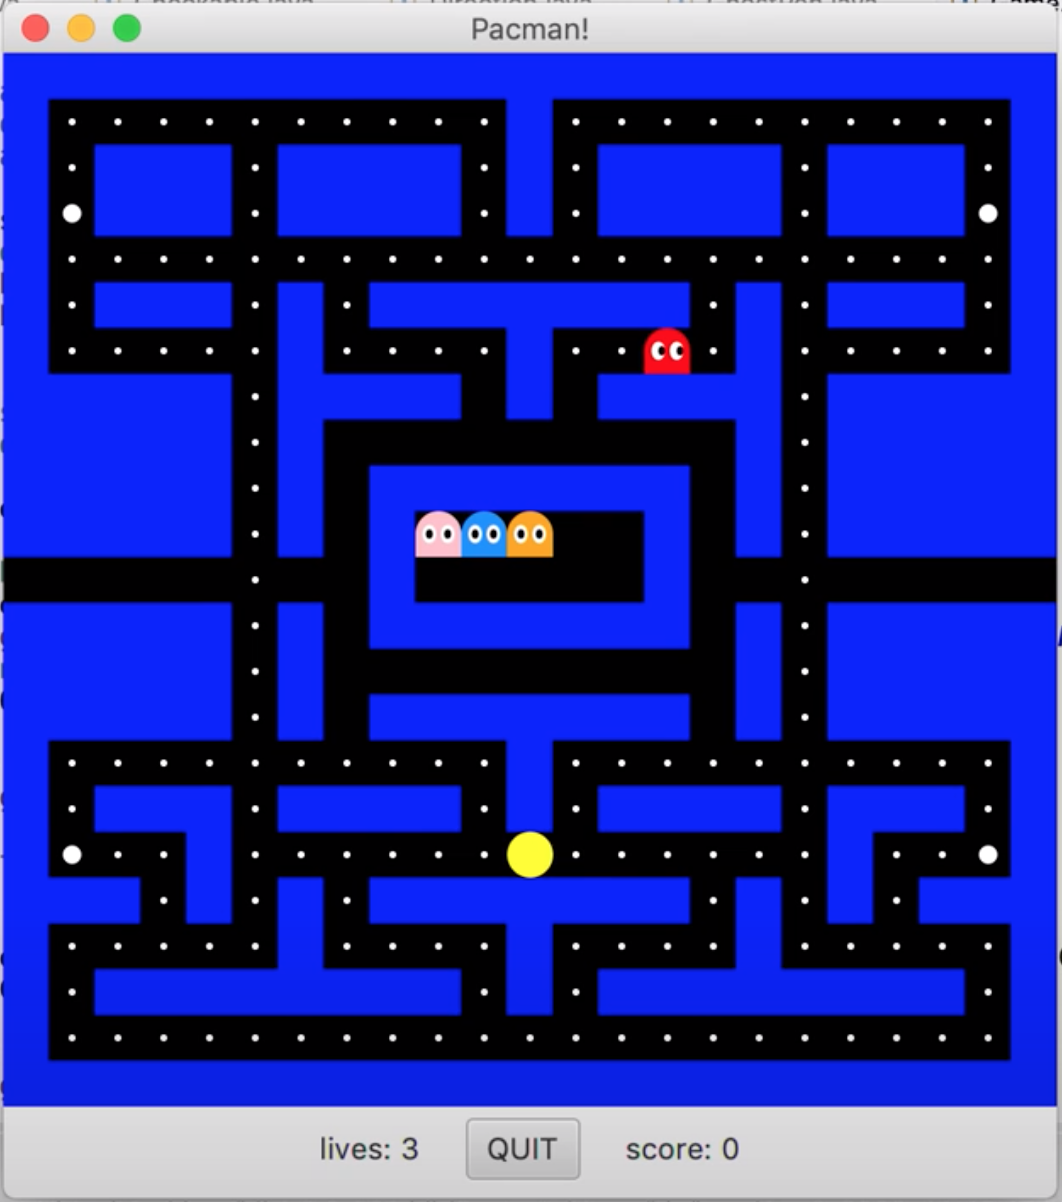
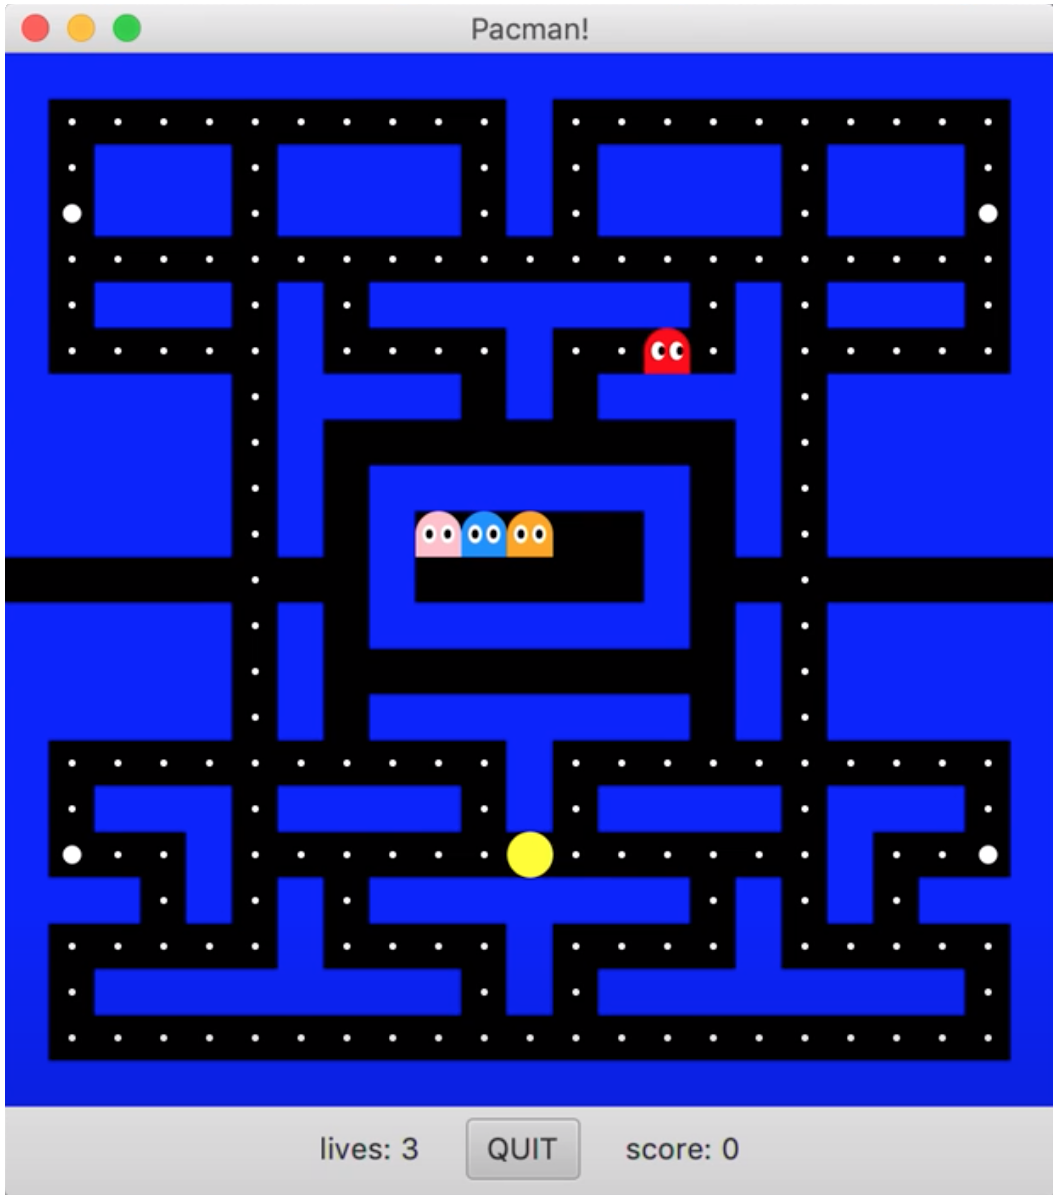
cropped imgs

Changed region(s): [[0.0, 0.0, 1.0, 1.0]]

diff --git a/index.md b/index.md
@@ -52,9 +52,9 @@ An example of the systems design I'm doing--high-level block diagram for our new
 ## Class Projects
 ### Java
 [Pacman](/mov/Pacman.mov)     -      [Tetris](/mov/Tetris.mov)     -       [DoodleJump](/mov/DoodleJump.mov)
-<img src="images/Pacman.png" style="width:160px;">
-<img src="images/Tetris.png" style="width:160px;">
-<img src="images/DoodleJump.png" style="width:160px;">
+<img src="images/Pacman.png" style="width:162px;">
+<img src="images/Tetris.png" style="width:162px;">
+<img src="images/DoodleJump.png" style="width:162px;">
 
 ### Python
 [RISC-V Assembler](/mov/Assembler.mov)
